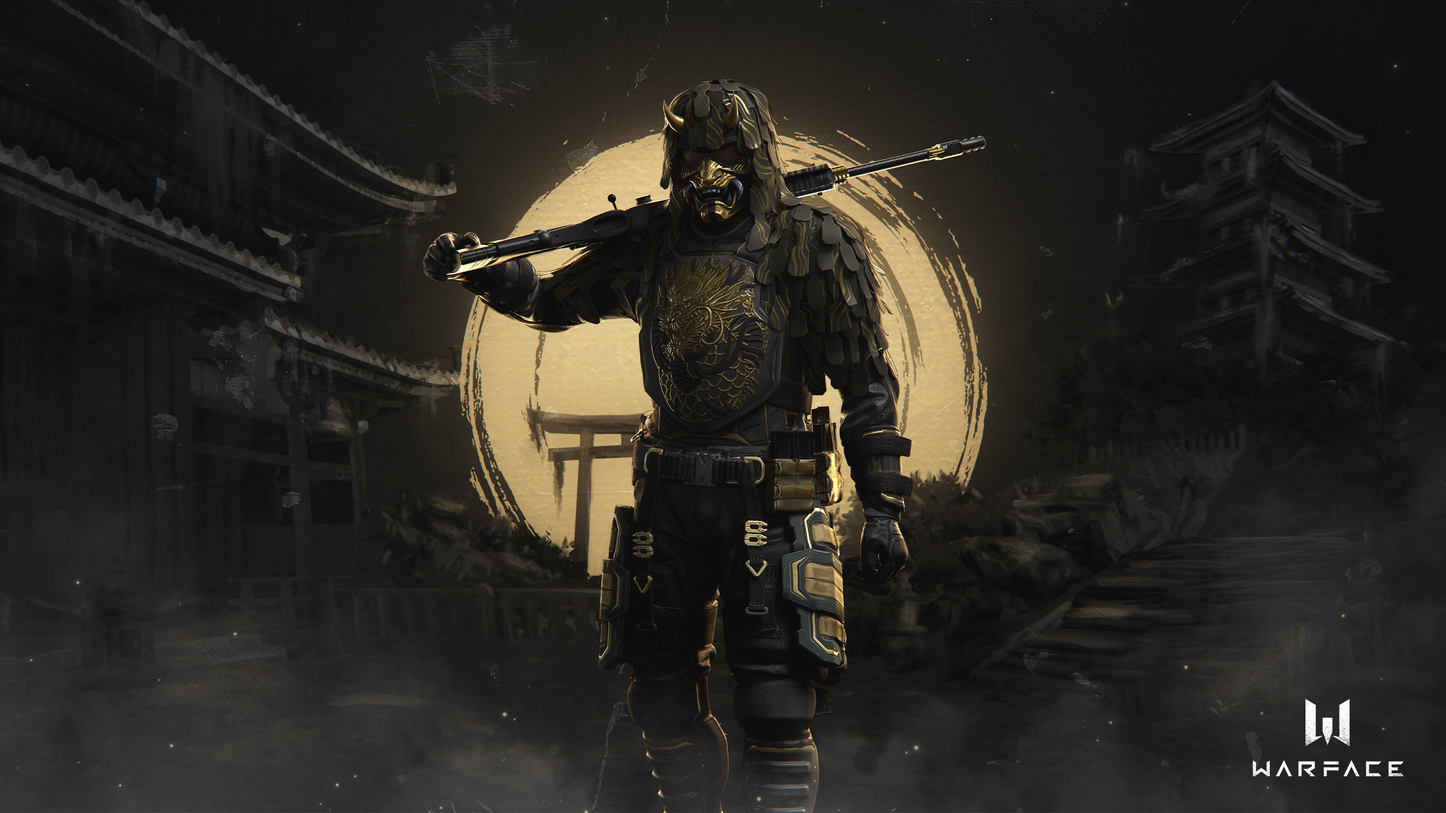
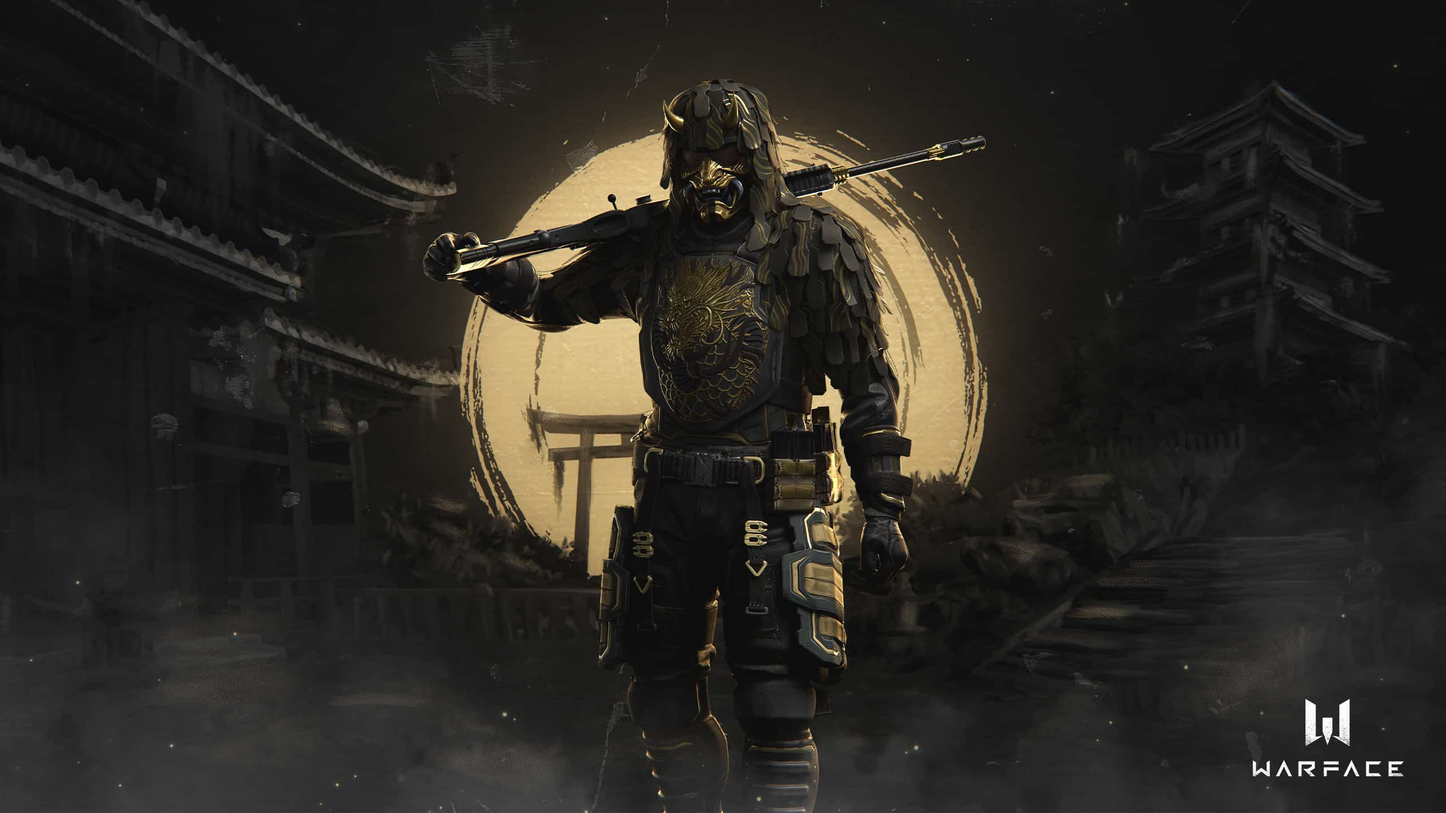
Compress images and fix paths

diff --git a/source/unitsFactories/SmuraiWarriorsFactroy.ts b/source/unitsFactories/SmuraiWarriorsFactroy.ts
@@ -6,7 +6,7 @@ import Sniper from '../units/Sniper.js';
 import listWepon from '../listWeapons.js';
 
 export default class SmuraiWarriorsFactroy extends WarriorAbstractFactory {
-    private skinDirectory: string = '../img/skins/samurai/';
+    private skinDirectory: string = './img/skins/samurai/';
     private race: string = 'Sumurai 👺';
 
     public getStormtrooper(name: string): Warrior {

diff --git a/source/unitsFactories/MechaWarriorsFactroy.ts b/source/unitsFactories/MechaWarriorsFactroy.ts
@@ -6,7 +6,7 @@ import Sniper from '../units/Sniper.js';
 import listWepon from '../listWeapons.js';
 
 export default class MechaWarriorsFactroy extends WarriorAbstractFactory {
-    private skinDirectory: string = '../img/skins/Mecha/';
+    private skinDirectory: string = './img/skins/mecha/';
     private race: string = 'Mecha 🤖';
 
     public getStormtrooper(name: string): Warrior {
